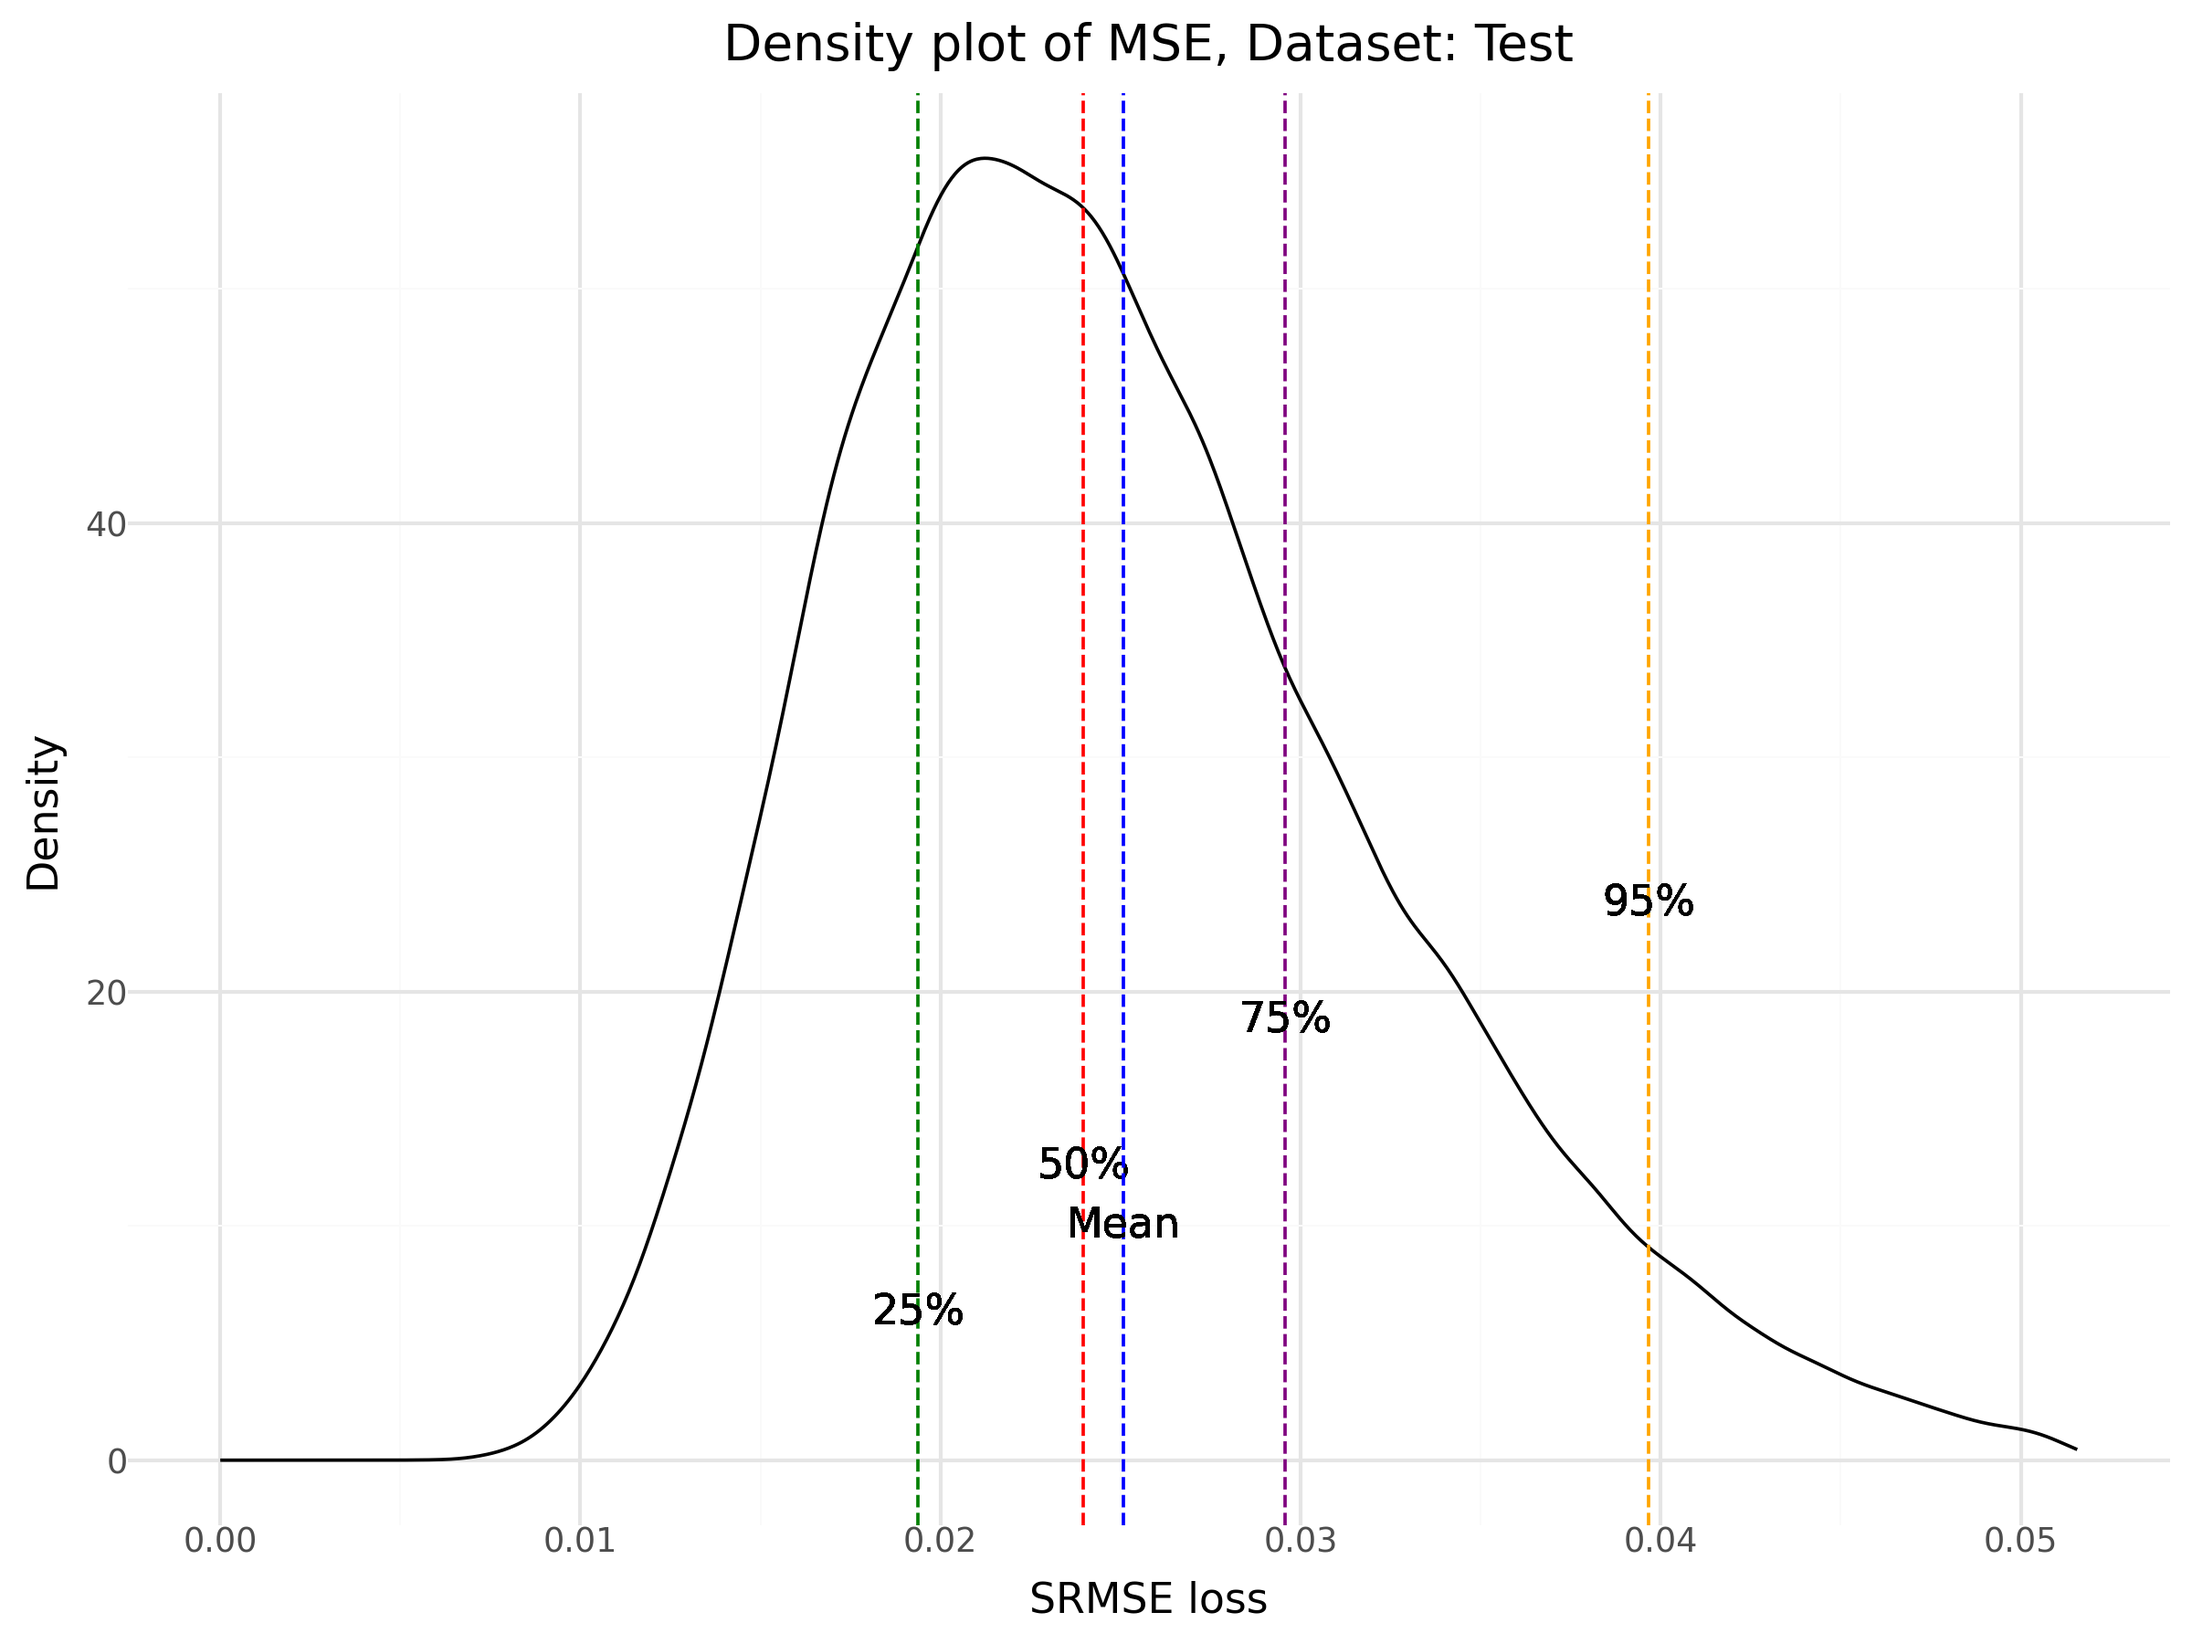
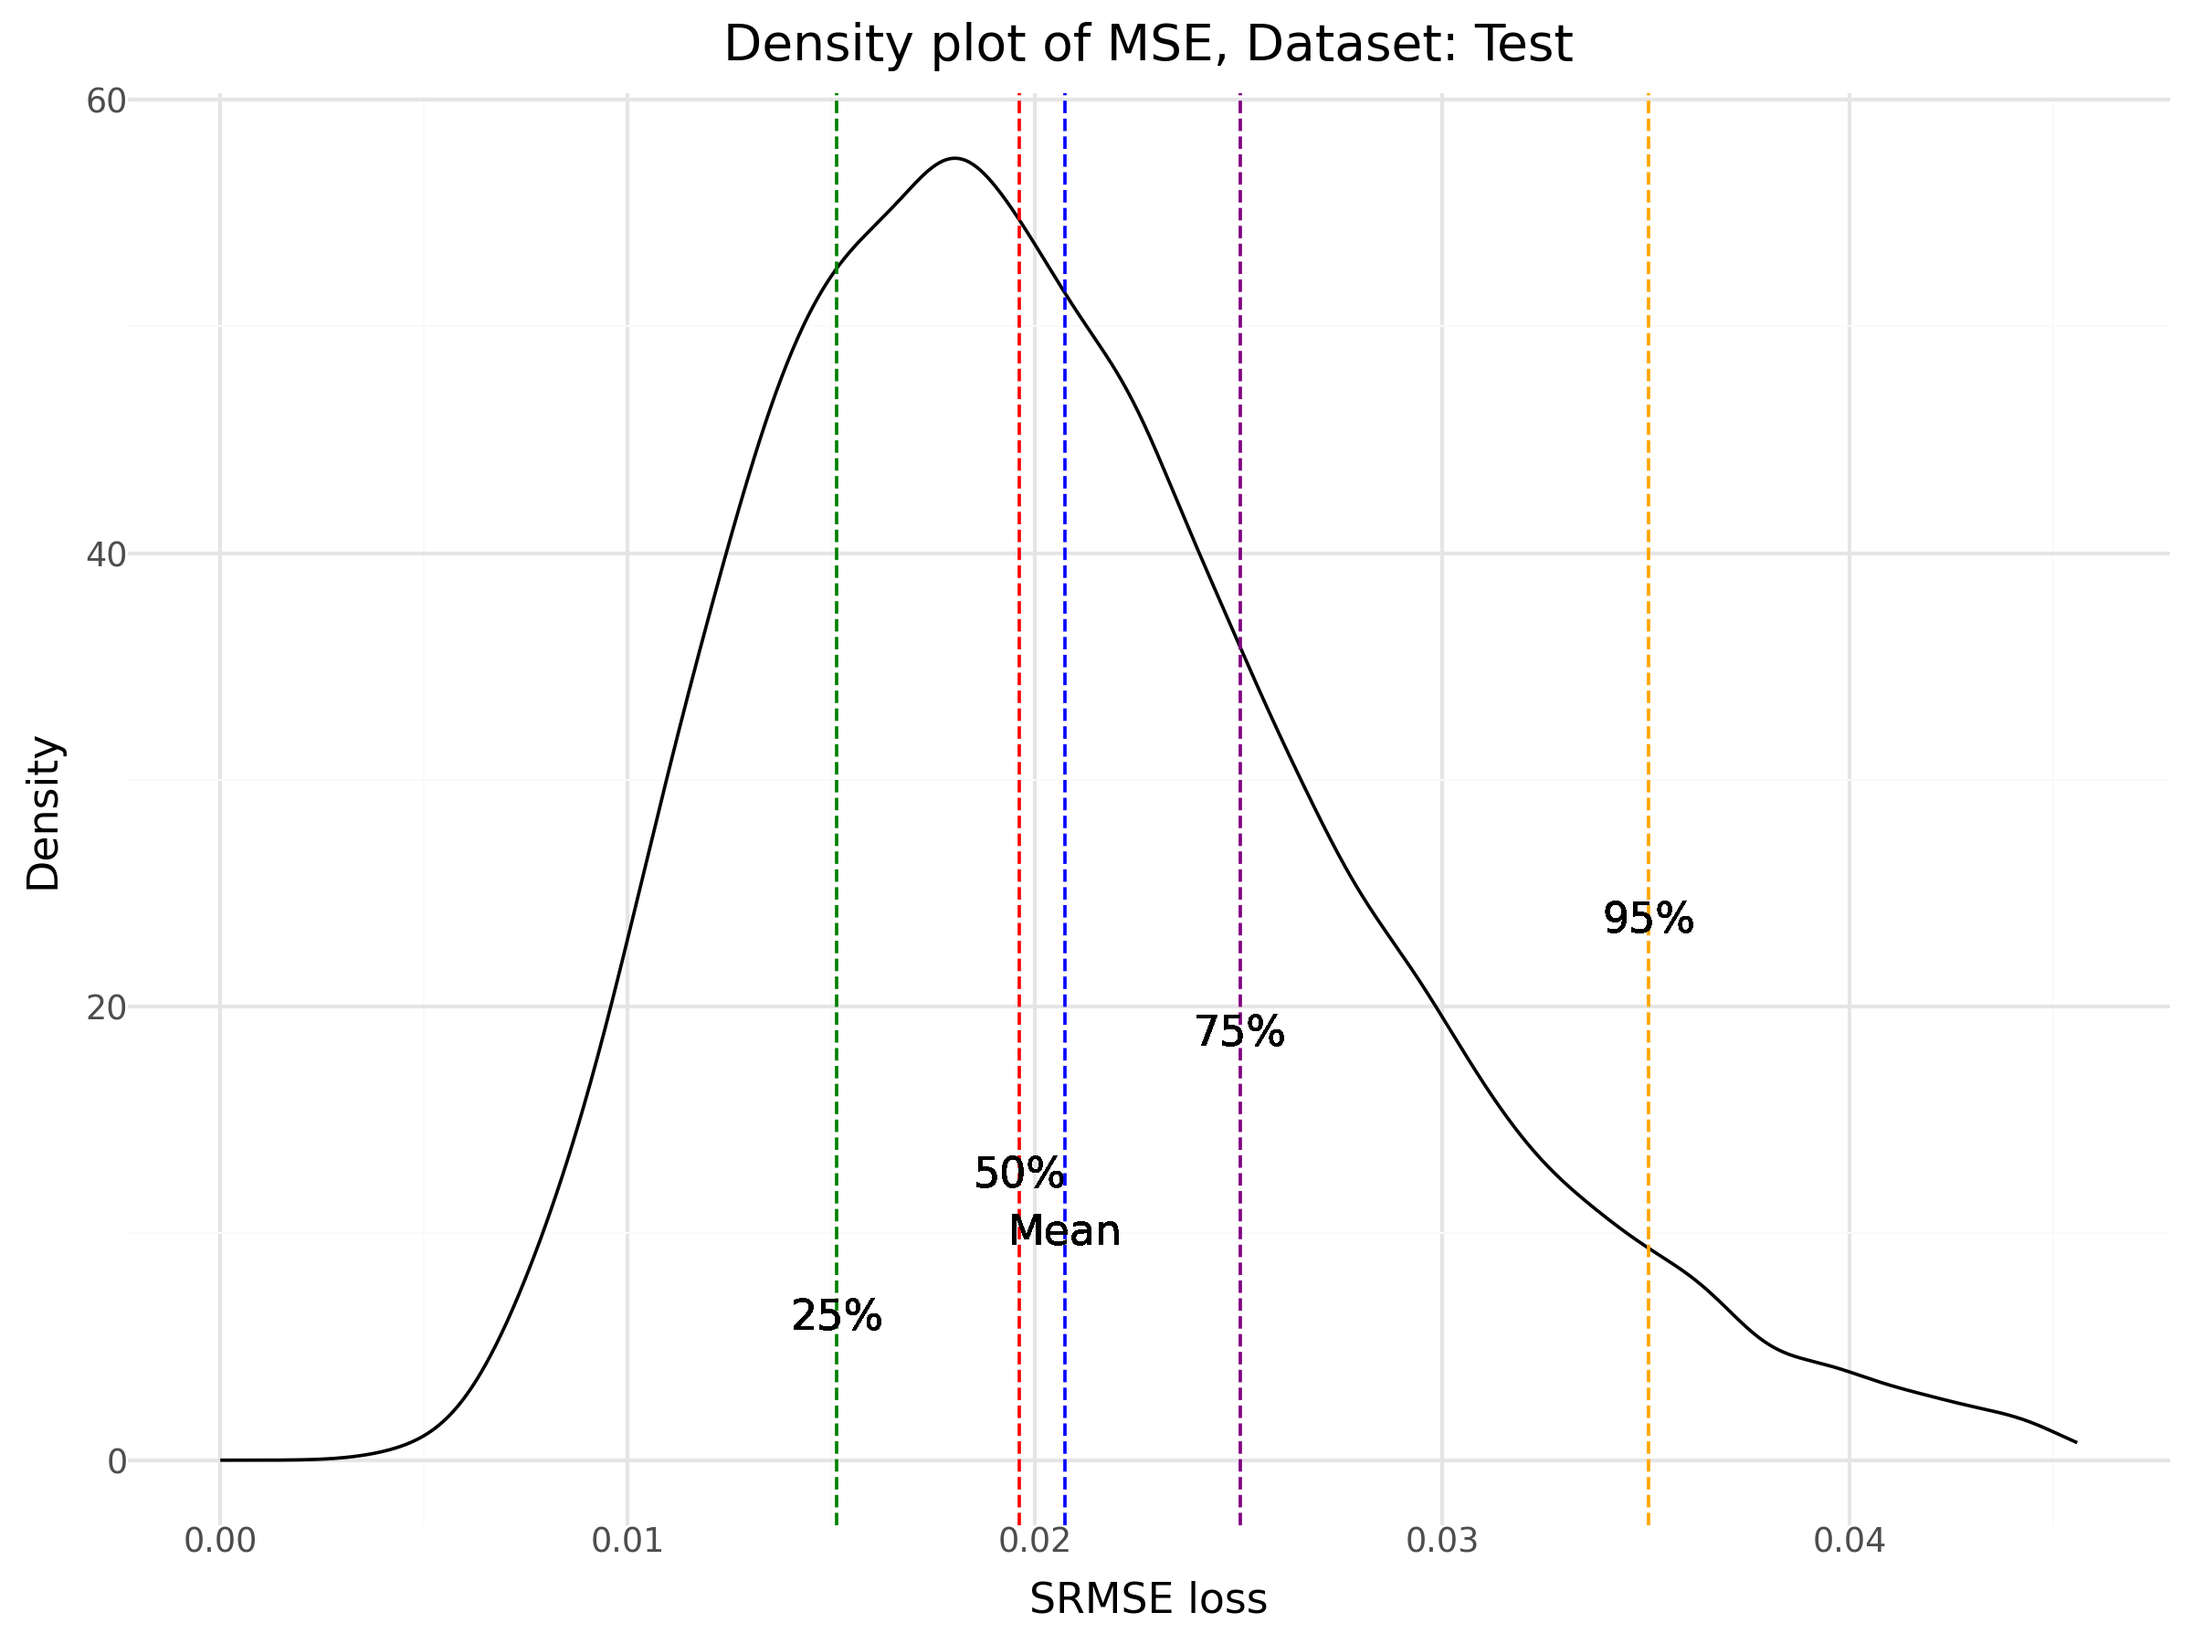
Update in plot_utils and nev.yml

diff --git a/train_ddp.py b/train_ddp.py
@@ -486,6 +486,7 @@ def load_config_and_initialize(rank: int, config: dict):
     os.makedirs(os.path.join(process_dir, 'plots'), exist_ok=True)
     os.makedirs(os.path.join(process_dir, 'models'), exist_ok=True)
     
+    logging.info(os.path.join(process_dir, config['DATA_DIRECTORY'], 'train', 'data', 'processed', 'sqlite.db'))
     if not os.path.exists(os.path.join(process_dir, config['DATA_DIRECTORY'], 'train', 'data', 'processed', 'sqlite.db')):
         persistent_data = os.path.join(PERSISTENT_STORAGE_PATH, config['DATA_DIRECTORY'])
         logging.info(f"Copying data from {persistent_data} to {process_dir}")

diff --git a/src/utils/plot_utils.py b/src/utils/plot_utils.py
@@ -21,7 +21,8 @@ def make_density_plot(df, config, script_path):
     quantiles = []
     quantiles_lst = [0.25, 0.5, 0.75, 0.95]
     # Use a subsample of the data to speed up the plot
-    #df = df.sample(n=15000)
+    num_samples = df.shape[0]
+    df = df.sample(n=int(num_samples*0.1)+1)
     for q in quantiles_lst: 
         quantiles.append(df['loss'].quantile(q))
     mean = df['loss'].mean()
